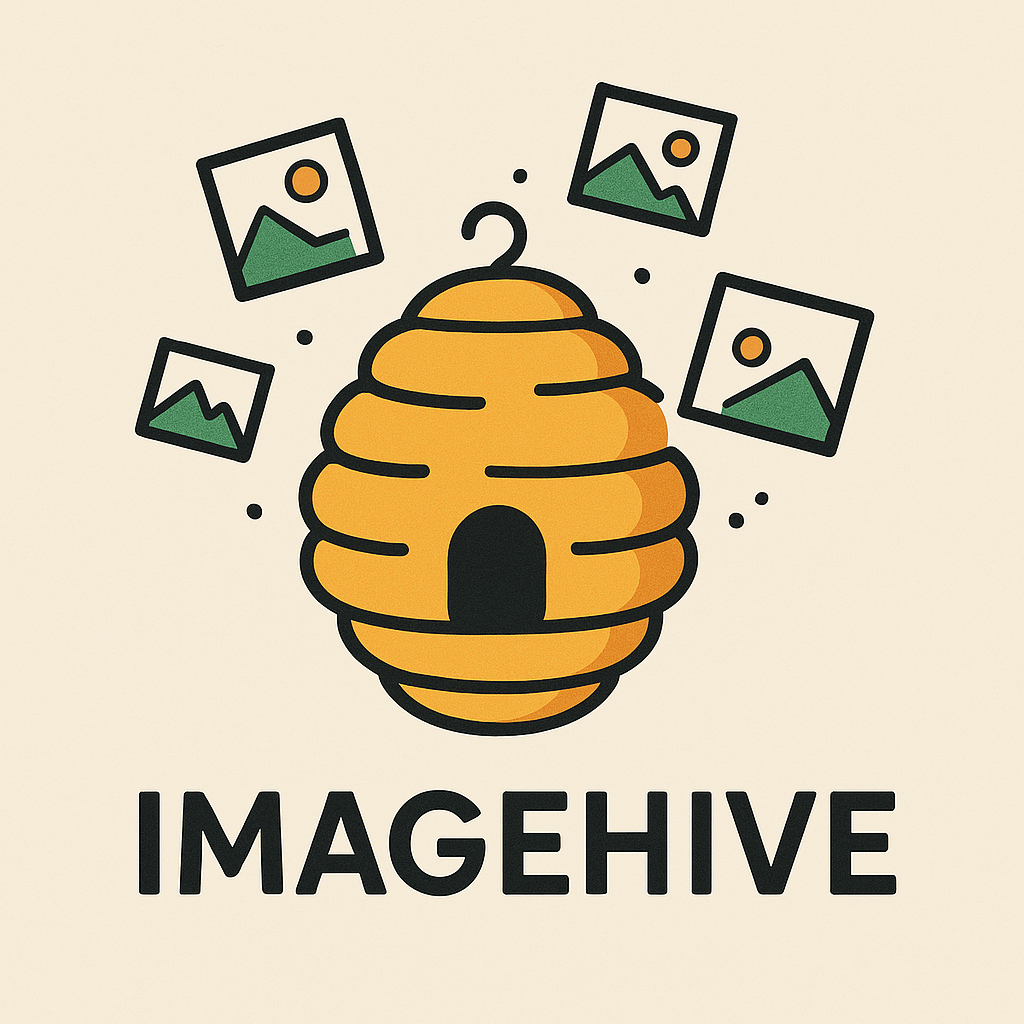
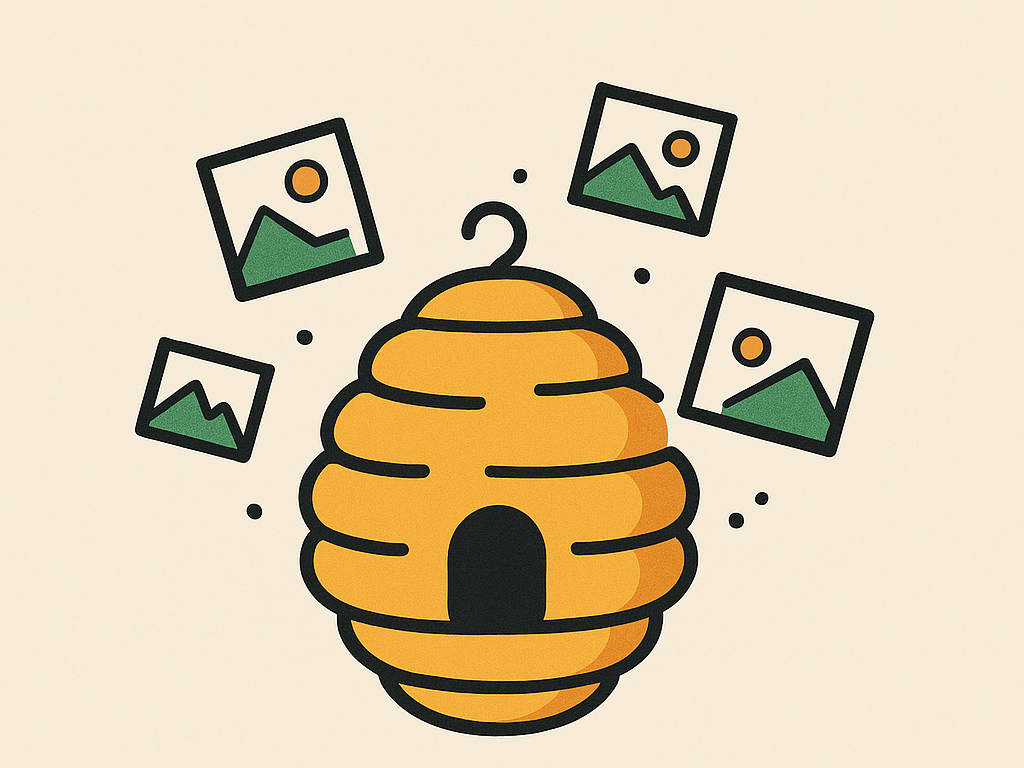
added ytdlarr project, improved imagehive pic

Changed region(s): [[0.125, 0.0625, 0.875, 0.9688]]

diff --git a/content/projects/ytdlarr/index.md b/content/projects/ytdlarr/index.md
@@ -1,0 +1,19 @@
+---
+title: "ytdlarr"
+date: 2025-05-20
+draft: false
+description: "YTDLARR is an *arr inspired app to monitor youtube channels and playlists for new videos and automatically download them."
+slug: "ytdlarr"
+tags: ["go", "react"]
+---
+
+![ytdlarr logo](logo.png?width=150px&height=150px)
+
+https://github.com/rubikan/ytdlarr
+
+## Planned features
+- Track channels/playlists on Youtube (possibly additional filter options)
+- Automatically download tracked videos, download them and move them to predefined folders
+- Downloads can use configured yt-dlp parameters (e.g. only download mp3, different qualities etc.)
+- Integrations with other *arr apps where useful
+- Deployment via Docker
